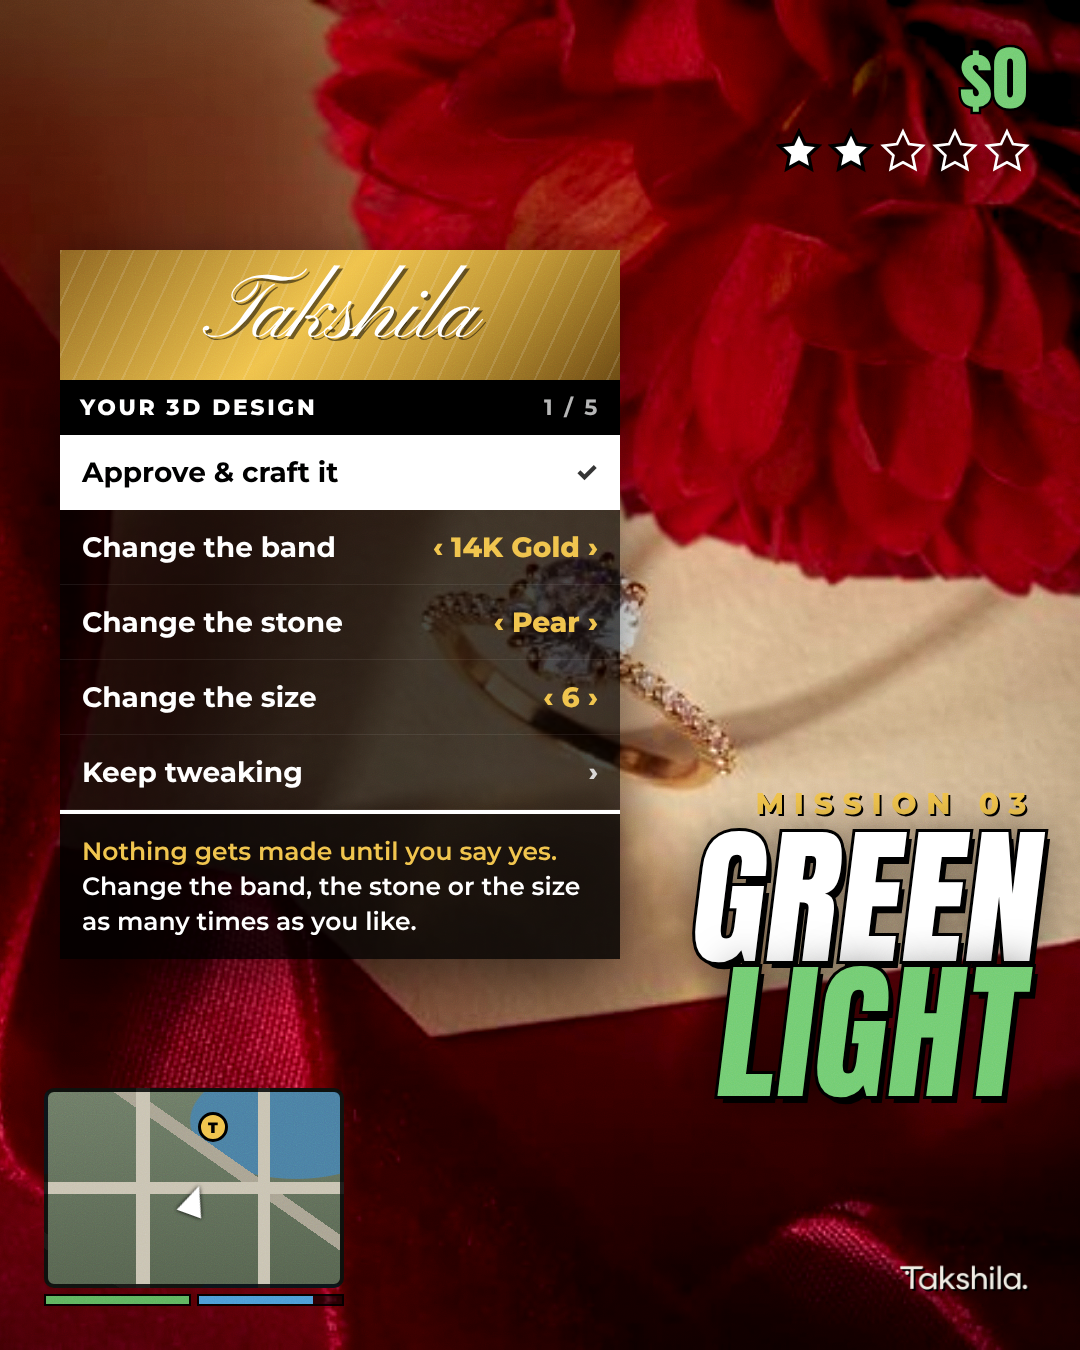
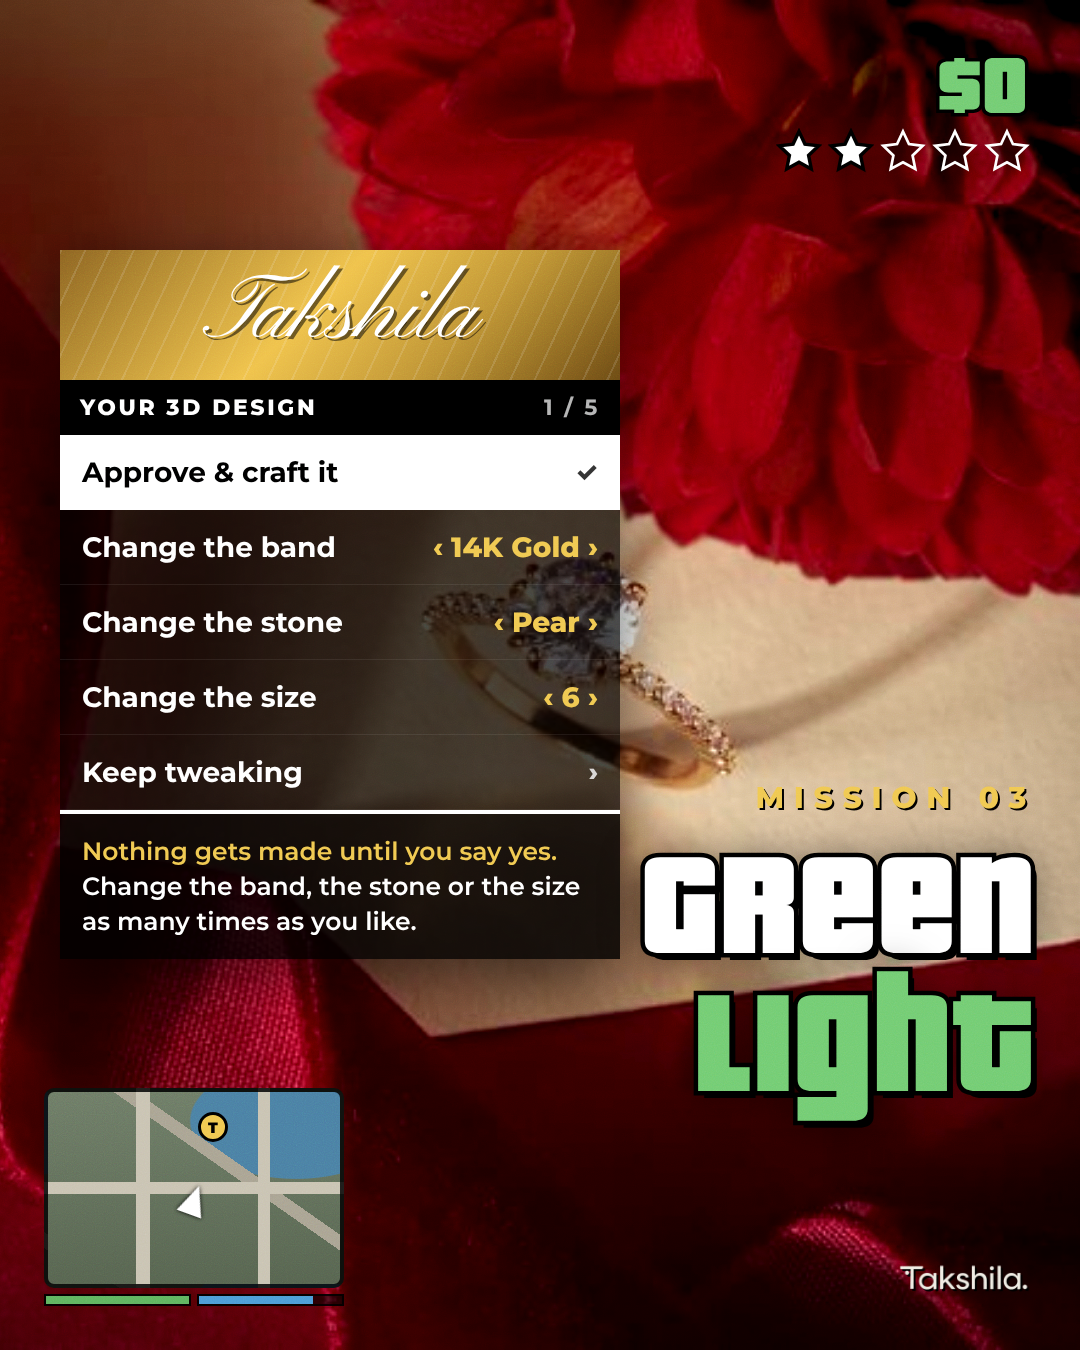
GTA carousel: Pricedown display type, GTA HUD colours, mission-passed ending
Claude-Session: https://claude.ai/code/session_01VXfb5SGCGkjs1XorxtizRz

Changed region(s): [[0.5806, 0.56, 0.9778, 0.84], [0.8556, 0.0311, 0.9472, 0.0933]]

diff --git a/carousels/takshila-gta/gta.html b/carousels/takshila-gta/gta.html
@@ -7,8 +7,9 @@
 <link rel="preconnect" href="https://fonts.gstatic.com" crossorigin>
 <link href="https://fonts.googleapis.com/css2?family=Anton&family=Montserrat:ital,wght@0,500;0,600;0,700;0,800;0,900;1,800;1,900&family=Pinyon+Script&display=swap" rel="stylesheet">
 <style>
+@font-face{font-family:'Pricedown';src:url('fonts/pricedown.otf') format('opentype');font-display:block}
 :root{
-  --gold:#C09435; --gold-hi:#F0C24B; --cash:#72CC72; --cash-dk:#2E6B2E; --hp:#5FB35F; --ar:#4C9BD6;
+  --gold:#C09435; --gold-hi:#F0C850; --P:'Pricedown',Impact,sans-serif; --cash:#72CC72; --cash-dk:#2E6B2E; --hp:#5FB35F; --ar:#4C9BD6;
   --ivory:#F5EFE7; --bur:#2B1016; --ink:#000;
   --A:'Anton',Impact,sans-serif; --M:'Montserrat',system-ui,sans-serif;
 }
@@ -26,8 +27,8 @@ body{background:#111;padding:40px;display:flex;flex-wrap:wrap;gap:40px;justify-c
 .bg{position:absolute;inset:0;width:100%;height:100%;object-fit:cover}
 
 /* ===== HUD ===== */
-.cash{position:absolute;top:44px;right:52px;z-index:40;font:400 70px/1 var(--A);color:var(--cash);letter-spacing:.01em;
-  -webkit-text-stroke:5px #000;paint-order:stroke fill;text-align:right}
+.cash{position:absolute;top:36px;right:52px;z-index:40;font:400 86px/1 var(--P);color:var(--cash);letter-spacing:.01em;
+  -webkit-text-stroke:7px #000;paint-order:stroke fill;text-align:right}
 .stars{position:absolute;top:128px;right:50px;z-index:40;display:flex;gap:6px}
 .stars svg{width:46px;height:46px}
 .stars .on{fill:#fff;stroke:#000;stroke-width:1.8}
@@ -60,19 +61,18 @@ body{background:#111;padding:40px;display:flex;flex-wrap:wrap;gap:40px;justify-c
 .swipe b{color:var(--gold-hi)}
 
 /* big game display type */
-.mtitle{font:400 1em/.9 var(--A);text-transform:uppercase;color:#fff;letter-spacing:.01em;transform:skew(-7deg);
-  -webkit-text-stroke:6px #000;paint-order:stroke fill;text-shadow:6px 7px 0 #000,0 0 40px rgba(0,0,0,.6)}
+.mtitle{font:400 1em/.92 var(--P);color:#fff;letter-spacing:.01em;
+  -webkit-text-stroke:9px #000;paint-order:stroke fill;text-shadow:6px 7px 0 #000,0 0 40px rgba(0,0,0,.6)}
 .mtitle.gold{color:var(--gold-hi)}
 .mlabel{font:800 30px var(--M);letter-spacing:.32em;text-transform:uppercase;color:var(--gold-hi);text-shadow:2px 2px 0 #000}
 
 /* ===== S1 box-art grid ===== */
 .grid-p{position:absolute;overflow:hidden;background:#222}
 .grid-p img{width:100%;height:100%;object-fit:cover;display:block}
-.titlebox{position:absolute;background:#000;display:flex;flex-direction:column;justify-content:center;align-items:center;text-align:center}
-.titlebox .t1{font:400 196px/.82 var(--A);color:#fff;letter-spacing:.005em;transform:skew(-6deg);-webkit-text-stroke:3px #fff;
-  text-shadow:0 0 0 #000,7px 7px 0 var(--gold)}
-.titlebox .t2{font:900 italic 46px/1 var(--M);letter-spacing:.24em;color:var(--gold-hi);margin-top:18px}
-.titlebox .t3{font:700 18px var(--M);letter-spacing:.4em;color:rgba(255,255,255,.6);margin-top:14px}
+.titlebox{position:absolute;background:radial-gradient(circle at 50% 40%,#2a2a2a,#000 75%);border:6px solid #fff;outline:14px solid #000;display:flex;flex-direction:column;justify-content:center;align-items:center;text-align:center}
+.titlebox .t1{font:400 170px/.86 var(--P);color:#fff;letter-spacing:.01em;-webkit-text-stroke:10px #000;paint-order:stroke fill;text-shadow:0 0 0 #000}
+.titlebox .t2{font:400 74px/1 var(--P);letter-spacing:.04em;color:var(--gold-hi);-webkit-text-stroke:6px #000;paint-order:stroke fill;margin-top:6px}
+.titlebox .t3{font:700 18px var(--M);letter-spacing:.4em;color:rgba(255,255,255,.6);margin-top:8px}
 
 /* ===== S3 wheel ===== */
 .wheel{position:absolute;left:90px;top:372px;width:900px;height:900px;border-radius:50%;transform:scale(.9);transform-origin:50% 0}
@@ -82,7 +82,7 @@ body{background:#111;padding:40px;display:flex;flex-wrap:wrap;gap:40px;justify-c
 .wedge .lbl{position:absolute;font:800 22px var(--M);letter-spacing:.14em;color:#fff;text-shadow:2px 2px 0 #000;transform:translate(-50%,-50%);white-space:nowrap}
 .hub{position:absolute;left:50%;top:50%;width:380px;height:380px;border-radius:50%;transform:translate(-50%,-50%);background:radial-gradient(circle,#1a1a1a,#000);border:6px solid #000;
   display:flex;flex-direction:column;align-items:center;justify-content:center;text-align:center;z-index:5;box-shadow:0 0 0 3px rgba(255,255,255,.25)}
-.hub b{font:400 76px/1 var(--A);color:#fff;letter-spacing:.02em}
+.hub b{font:400 82px/1 var(--P);color:#fff;letter-spacing:.02em}
 .hub span{font:700 24px var(--M);color:var(--gold-hi);margin-top:8px;letter-spacing:.08em}
 .hub small{font:600 20px/1.35 var(--M);color:rgba(255,255,255,.7);margin-top:14px;max-width:270px}
 
@@ -92,7 +92,7 @@ body{background:#111;padding:40px;display:flex;flex-wrap:wrap;gap:40px;justify-c
 .crew .ph{height:340px;overflow:hidden;position:relative}
 .crew .ph img{width:100%;height:100%;object-fit:cover}
 .crew .role{position:absolute;left:0;top:0;background:#000;color:var(--gold-hi);font:800 18px var(--M);letter-spacing:.2em;padding:10px 14px}
-.crew h3{font:400 46px/1 var(--A);text-transform:uppercase;padding:22px 22px 6px}
+.crew h3{font:400 48px/1 var(--P);padding:22px 22px 6px}
 .crew p{font:600 22px/1.4 var(--M);color:rgba(255,255,255,.75);padding:0 22px;min-height:96px}
 .skill{padding:10px 22px 0}
 .skill label{display:flex;justify-content:space-between;font:800 18px var(--M);letter-spacing:.14em;color:rgba(255,255,255,.85);margin-bottom:8px}
@@ -100,7 +100,7 @@ body{background:#111;padding:40px;display:flex;flex-wrap:wrap;gap:40px;justify-c
 .seg i{height:16px;background:rgba(255,255,255,.15)}
 .seg i.f{background:var(--c,var(--gold-hi))}
 .crew .cut{margin-top:auto;display:flex;justify-content:space-between;align-items:center;padding:18px 22px;background:rgba(255,255,255,.06);font:800 22px var(--M);letter-spacing:.14em}
-.crew .cut b{font:400 48px/1 var(--A);color:var(--cash);letter-spacing:0;-webkit-text-stroke:2px #000;paint-order:stroke fill}
+.crew .cut b{font:400 56px/1 var(--P);color:var(--cash);letter-spacing:0;-webkit-text-stroke:2px #000;paint-order:stroke fill}
 
 /* ===== S5 interaction menu ===== */
 .imenu{position:absolute;left:60px;top:250px;width:560px;z-index:20;box-shadow:0 20px 60px rgba(0,0,0,.6)}
@@ -121,7 +121,7 @@ body{background:#111;padding:40px;display:flex;flex-wrap:wrap;gap:40px;justify-c
 /* ===== S6 pause menu ===== */
 .pm{position:absolute;left:44px;right:44px;top:120px;bottom:44px}
 .pm .brand{display:flex;justify-content:space-between;align-items:flex-end;margin-bottom:22px}
-.pm .brand h2{font:400 84px/.9 var(--A);text-transform:uppercase;letter-spacing:.01em}
+.pm .brand h2{font:400 92px/.92 var(--P);letter-spacing:.01em;-webkit-text-stroke:7px #000;paint-order:stroke fill}
 .pm .brand small{font:700 22px/1.4 var(--M);color:rgba(255,255,255,.75);text-align:right}
 .tabs{display:grid;grid-template-columns:repeat(4,1fr);gap:6px}
 .tabs div{background:rgba(0,0,0,.75);text-align:center;padding:18px 0 16px;font:800 22px var(--M);letter-spacing:.16em;color:rgba(255,255,255,.8);border-bottom:6px solid transparent}
@@ -141,7 +141,7 @@ body{background:#111;padding:40px;display:flex;flex-wrap:wrap;gap:40px;justify-c
 
 /* ===== S7 complete ===== */
 .band{position:absolute;left:0;right:0;top:470px;height:300px;background:linear-gradient(90deg,transparent,rgba(0,0,0,.82) 18%,rgba(0,0,0,.82) 82%,transparent);display:flex;flex-direction:column;align-items:center;justify-content:center;z-index:20}
-.band .big{font:400 150px/.95 var(--A);text-transform:uppercase;color:var(--gold-hi);letter-spacing:.01em;-webkit-text-stroke:5px #000;paint-order:stroke fill;text-shadow:5px 6px 0 #000;transform:skew(-6deg)}
+.band .big{font:400 128px/.95 var(--P);color:var(--gold-hi);letter-spacing:.01em;-webkit-text-stroke:10px #000;paint-order:stroke fill;text-shadow:0 6px 18px rgba(0,0,0,.6)}
 .band .sm{font:800 30px var(--M);letter-spacing:.36em;color:#fff;margin-top:10px}
 .results{position:absolute;left:150px;right:150px;top:800px;z-index:20;background:rgba(0,0,0,.78);padding:12px 34px}
 .results div{display:flex;justify-content:space-between;padding:16px 0;font:700 30px var(--M);border-bottom:1px solid rgba(255,255,255,.12)}
@@ -294,13 +294,13 @@ body{background:#111;padding:40px;display:flex;flex-wrap:wrap;gap:40px;justify-c
 </section>
 
 <!-- ================= S7 · HEIST COMPLETE ================= -->
-<section class="slide grain" data-name="7-heist-complete">
+<section class="slide grain" data-name="7-mission-passed">
   <img class="bg graded" src="assets/lariat-neck.jpg" style="object-position:50% 25%">
   <div class="grade-ov"></div><div class="vig"></div>
   <div class="abs" style="inset:0;background:rgba(0,0,0,.25)"></div>
   <div class="cash">+ ONE OF ONE</div>
   <div class="stars"><svg class="off"><use href="#star"/></svg><svg class="off"><use href="#star"/></svg><svg class="off"><use href="#star"/></svg><svg class="off"><use href="#star"/></svg><svg class="off"><use href="#star"/></svg></div>
-  <div class="band"><div class="big">Heist complete</div><div class="sm">THE GOLD JOB</div></div>
+  <div class="band"><div class="big">mission passed</div><div class="sm">THE GOLD JOB · RESPECT +</div></div>
   <div class="results">
     <div><span>Loot</span><b>1 piece, made only for you</b></div>
     <div><span>Time</span><b>15 days</b></div>

diff --git a/carousels/takshila-gta/README.md b/carousels/takshila-gta/README.md
@@ -1,6 +1,6 @@
 # Takshila — "The Gold Job" (GTA V-style carousel)
 
-Seven 1080×1350 Instagram slides styled like an open-world crime game UI. Uses no game logos, fonts or characters.
+Seven 1080×1350 Instagram slides styled like an open-world crime game UI. Display type is Pricedown, in GTA's HUD colours (cash green, mission-passed gold, white text with heavy black outlines). Uses no game logo, title or characters.
 
 1. Box-art cover: grid of graded photo panels, title block
 2. Mission 01 · The Pitch: mission-start title card, help box, subtitles, radar
@@ -8,9 +8,16 @@ Seven 1080×1350 Instagram slides styled like an open-world crime game UI. Uses 
 4. Pick your crew: AI Design Studio / Master Jeweler / You (the boss, 100% cut)
 5. Green light: interaction menu where nothing gets made until you say yes
 6. Mission 04 · The Craft: pause-menu stats (solid gold, hallmarked, GIA & IGI, 15 days)
-7. Heist complete: results screen + CTA
+7. Mission passed: results screen + CTA
 
 ```bash
 node export.js     # export/*.png at 1080×1350
 node export.js 2   # 2160×2700
 ```
+
+## Font (not in git)
+
+Pricedown (Typodermic) is free for commercial **static** work like these images, but its licence forbids sharing the font file. It is git-ignored, so each person who exports needs their own copy:
+
+1. Download it from dafont.com/pricedown.font.
+2. Save `Pricedown Bl.otf` as `fonts/pricedown.otf`.
